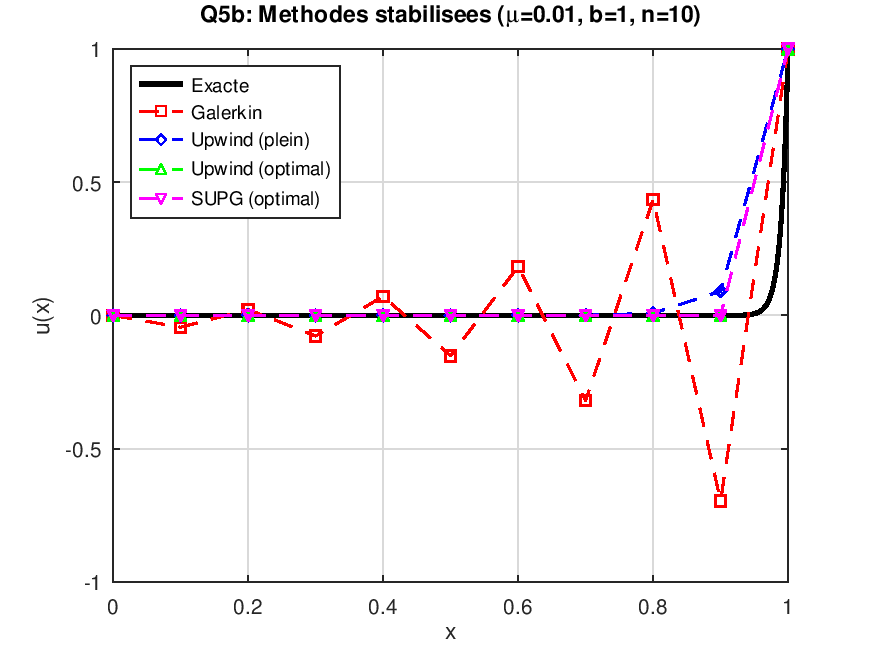
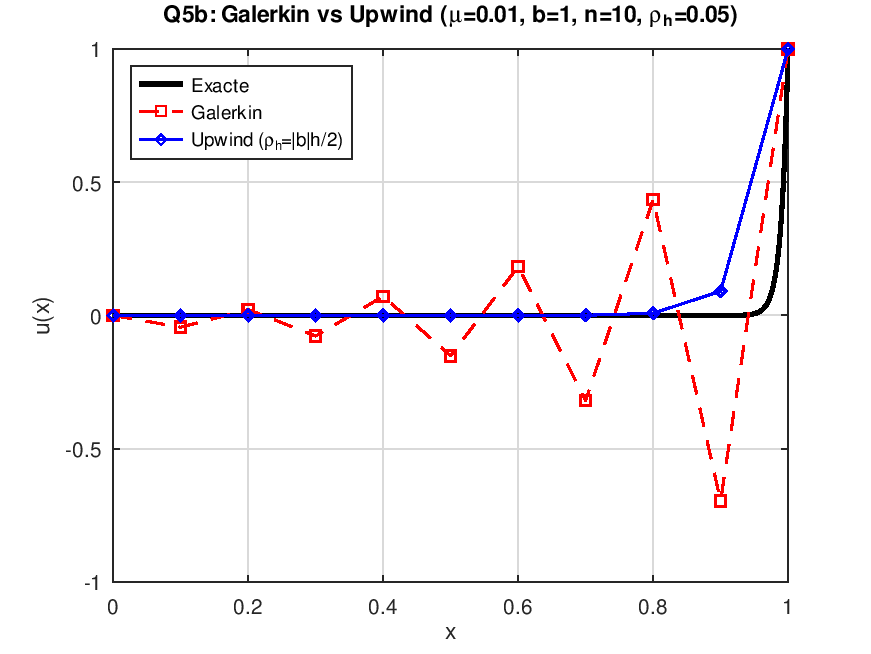
Q5b: upwind via ajout de rho_h=|b|h/2 a la raideur (routines fournies)

diff --git a/src/q5b_upwind_supg.m b/src/q5b_upwind_supg.m
@@ -1,67 +1,80 @@
-%% Q5b - Transport dominant: Galerkin vs upwind vs SUPG
-%  -mu u'' + b u' = 0, u(0)=0, u(1)=1
-%  b=1, mu=0.01
-%  Compare exact, Galerkin, upwind (full), upwind (optimal), SUPG (optimal)
+%% Q5b - Transport dominant : Galerkin vs Upwind (diffusion artificielle)
+%  -mu u'' + b u' = 0, u(0)=0, u(1)=1   avec  mu=0.01, b=1
+%  Mise en application DIRECTE des routines fournies (sans solve_dtr).
+%
+%  Upwind "plein" : on ajoute a la matrice de raideur la diffusion
+%  artificielle rho_h = |b|*h/2.  La contribution elementaire ajoutee est
+%      (rho_h/h) * [ 1 -1 ; -1 1 ]
+%  (avec b=1 cela vaut 0.5*[1 -1;-1 1], independant de h).
 
 clear; close all;
+if exist('OCTAVE_VERSION','builtin'), graphics_toolkit('fltk'); warning('off','all'); end
 
+%--- donnees physiques ---
 mu = 0.01; b_coef = 1; sigma = 0;
-fhandle = @(x) 0;
-n = 10;  % low n to show oscillation differences clearly
+acoef = -mu;  bcoef = b_coef;  ccoef = sigma;
+nnel = 2; ndof = 1;
 
-% exact solution
+%--- solution exacte (analytique) en reference ---
 x_exact = linspace(0,1,500)';
 alpha = b_coef/mu;
 u_exact = (exp(alpha*x_exact) - 1) / (exp(alpha) - 1);
 
-% Galerkin
-[xn, uh_gal] = solve_dtr(mu, b_coef, sigma, n, fhandle, 'galerkin');
+n_values = [10, 40];
+outfiles = {'../figures/q5b_upwind_supg.png', '../figures/q5b_upwind_supg_n40.png'};
 
-% Upwind (full artificial diffusion)
-[~, uh_upf] = solve_dtr(mu, b_coef, sigma, n, fhandle, 'upwind_full');
+for ic = 1:length(n_values)
+  nel = n_values(ic);
+  nnode = nel + 1;  sdof = nnode*ndof;
+  hh = 1/nel;
+  rho_h = abs(b_coef)*hh/2;        % diffusion artificielle (upwind plein)
 
-% Upwind (optimal / Scharfetter-Gummel)
-[~, uh_upo] = solve_dtr(mu, b_coef, sigma, n, fhandle, 'upwind_opt');
+  %--- coordonnees et connectivite ---
+  gcoord = zeros(nnode,1);
+  for k1 = 1:nnode, gcoord(k1) = (k1-1)*hh; end
+  nodes = zeros(nel,2);
+  for iel = 1:nel, nodes(iel,1)=iel; nodes(iel,2)=iel+1; end
 
-% SUPG (optimal tau)
-[~, uh_supg] = solve_dtr(mu, b_coef, sigma, n, fhandle, 'supg');
+  bcdof = [1, nnode];  bcval = [0, 1];
 
-figure();
-plot(x_exact, u_exact, 'k-', 'LineWidth', 2); hold on;
-plot(xn, uh_gal,  'rs--', 'MarkerSize', 5, 'LineWidth', 1);
-plot(xn, uh_upf,  'bd--', 'MarkerSize', 5, 'LineWidth', 1);
-plot(xn, uh_upo,  'g^--', 'MarkerSize', 5, 'LineWidth', 1);
-plot(xn, uh_supg, 'mv--', 'MarkerSize', 5, 'LineWidth', 1);
-xlabel('x'); ylabel('u(x)');
-title(sprintf('Q5b: Methodes stabilisees (\\mu=%.2f, b=%g, n=%d)', mu, b_coef, n));
-legend('Exacte', 'Galerkin', 'Upwind (plein)', 'Upwind (optimal)', 'SUPG (optimal)', ...
-       'Location', 'NorthWest');
-grid on;
-print('-dpng', '-r150', '../figures/q5b_upwind_supg.png');
+  %--- assemblage Galerkin et Upwind (routines fournies) ---
+  kk_gal = zeros(sdof);  ff_gal = zeros(sdof,1);
+  kk_upw = zeros(sdof);  ff_upw = zeros(sdof,1);
+  Dart = [1 -1; -1 1];             % matrice de diffusion unitaire
+  for iel = 1:nel
+    xl = gcoord(nodes(iel,1));  xr = gcoord(nodes(iel,2));
+    eleng = xr - xl;
+    index = feeldof1(iel,nnel,ndof);
+    ke = feode2l(acoef,bcoef,ccoef,eleng);     % Galerkin (fourni)
+    fe = [0; 0];                               % f = 0
+    [kk_gal,ff_gal] = feasmbl2(kk_gal,ff_gal,ke,fe,index);
 
-% same with n=40
-n = 40;
-[xn, uh_gal]  = solve_dtr(mu, b_coef, sigma, n, fhandle, 'galerkin');
-[~, uh_upf]   = solve_dtr(mu, b_coef, sigma, n, fhandle, 'upwind_full');
-[~, uh_upo]   = solve_dtr(mu, b_coef, sigma, n, fhandle, 'upwind_opt');
-[~, uh_supg]  = solve_dtr(mu, b_coef, sigma, n, fhandle, 'supg');
+    % upwind : on AJOUTE rho_h a la matrice de raideur
+    ke_up = ke + (rho_h/eleng)*Dart;
+    [kk_upw,ff_upw] = feasmbl2(kk_upw,ff_upw,ke_up,fe,index);
+  end
 
-figure();
-plot(x_exact, u_exact, 'k-', 'LineWidth', 2); hold on;
-plot(xn, uh_gal,  'rs--', 'MarkerSize', 4, 'LineWidth', 1);
-plot(xn, uh_upf,  'bd--', 'MarkerSize', 4, 'LineWidth', 1);
-plot(xn, uh_upo,  'g^--', 'MarkerSize', 4, 'LineWidth', 1);
-plot(xn, uh_supg, 'mv--', 'MarkerSize', 4, 'LineWidth', 1);
-xlabel('x'); ylabel('u(x)');
-title(sprintf('Q5b: Methodes stabilisees (\\mu=%.2f, b=%g, n=%d)', mu, b_coef, n));
-legend('Exacte', 'Galerkin', 'Upwind (plein)', 'Upwind (optimal)', 'SUPG (optimal)', ...
-       'Location', 'NorthWest');
-grid on;
-print('-dpng', '-r150', '../figures/q5b_upwind_supg_n40.png');
+  [kk_gal,ff_gal] = feaplyc2(kk_gal,ff_gal,bcdof,bcval);
+  [kk_upw,ff_upw] = feaplyc2(kk_upw,ff_upw,bcdof,bcval);
+  uh_gal = kk_gal \ ff_gal;
+  uh_upw = kk_upw \ ff_upw;
 
-fprintf('Q5b done.\n');
-fprintf('Commentaire:\n');
-fprintf('- Galerkin standard: oscillations spurieuses pour Pe_h > 1.\n');
-fprintf('- Upwind plein: stable mais excessivement diffusif (smearing de la couche limite).\n');
-fprintf('- Upwind optimal: stable et nodalement exact pour 1D constant coefficients.\n');
-fprintf('- SUPG optimal: equivalent a upwind optimal en 1D, donne la solution nodale exacte.\n');
+  figure();
+  plot(x_exact, u_exact, 'k-', 'LineWidth', 2); hold on;
+  plot(gcoord, uh_gal, 'rs--', 'MarkerSize', 5, 'LineWidth', 1);
+  plot(gcoord, uh_upw, 'bd-',  'MarkerSize', 5, 'LineWidth', 1);
+  xlabel('x'); ylabel('u(x)');
+  title(sprintf('Q5b: Galerkin vs Upwind (\\mu=%.2f, b=%g, n=%d, \\rho_h=%.4g)', ...
+        mu, b_coef, nel, rho_h));
+  legend('Exacte', 'Galerkin', 'Upwind (\rho_h=|b|h/2)', 'Location', 'NorthWest');
+  grid on;
+  print('-dpng', '-r150', outfiles{ic});
+
+  fprintf('n=%d, h=%.4f, Pe_h=%.2f, rho_h=%.4f | Galerkin min=%.4f | Upwind min=%.4f\n', ...
+          nel, hh, b_coef*hh/(2*mu), rho_h, min(uh_gal), min(uh_upw));
+end
+
+fprintf('\nQ5b done.\n');
+fprintf('- Galerkin standard : oscillations spurieuses pour Pe_h > 1.\n');
+fprintf('- Upwind (ajout de rho_h=|b|h/2 a la raideur) : oscillations supprimees (min>=0),\n');
+fprintf('  mais schema diffusif (couche limite lissee).\n');
